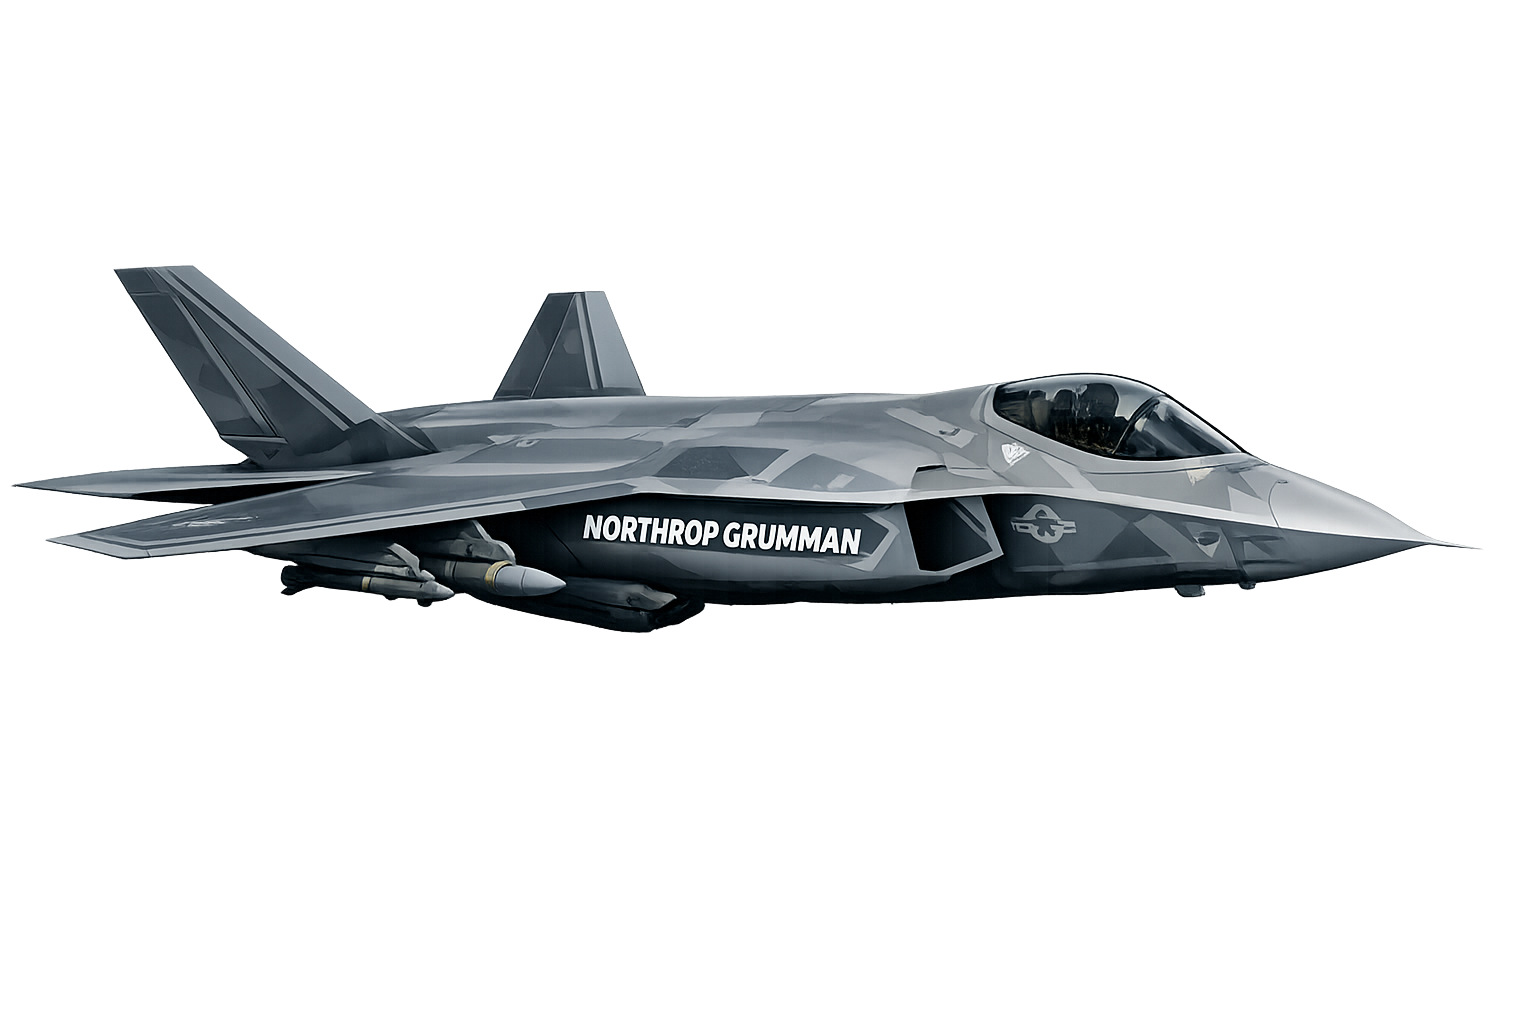
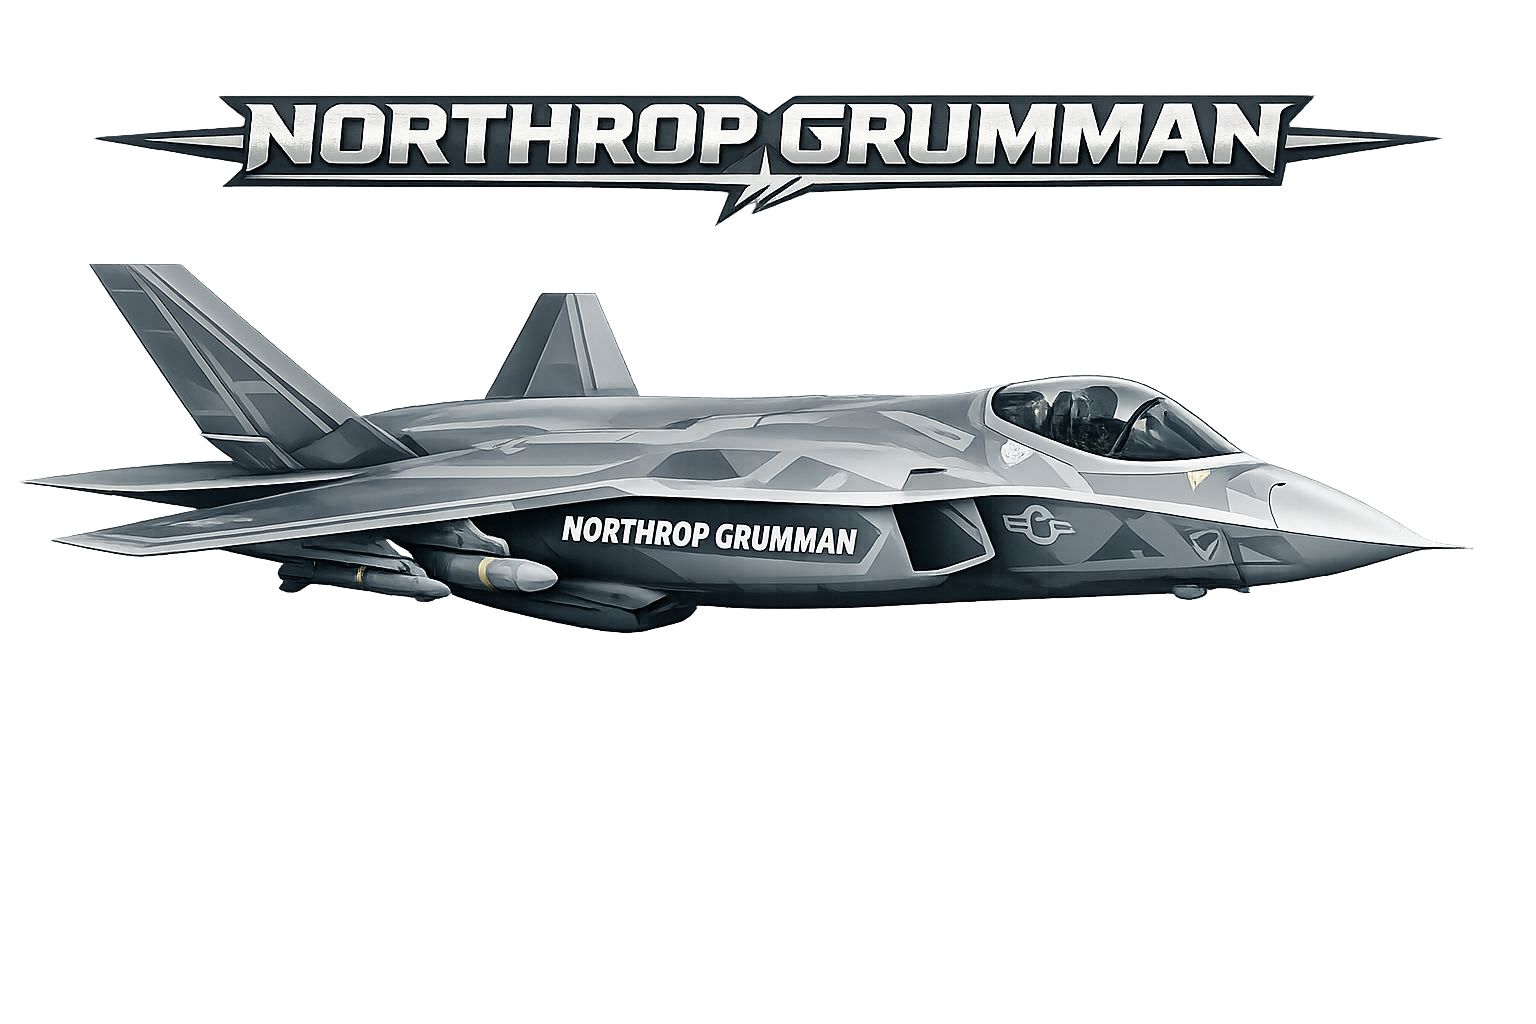
Fix phase 2: UFO stays behind jet, never overtakes before firing
UFO gap shrinks from 250px to 80px as it catches up, fires laser
from behind, jet explodes mid-flight. UFO then decelerates to hover.
Also replaced jet-right.png with version including big logo.

Changed region(s): [[0.0, 0.25, 0.9375, 0.625], [0.0625, 0.0938, 0.9375, 0.2188]]

diff --git a/public/js/easter-egg.js b/public/js/easter-egg.js
@@ -113,27 +113,32 @@ function runPhase2(overlay) {
   // store for phase 3
   overlay._ufo = ufo;
 
-  // Jet flies steady R→L across entire screen
-  const jetStart = W + 100;
-  const jetEnd = -350;
+  // Both fly right-to-left.
+  // Jet is AHEAD (fleeing), UFO is BEHIND (chasing).
+  // UFO closes the gap but never passes the jet.
+  // At t=0.45 UFO is right behind → fires laser → jet explodes.
+  // Then UFO slows to hover at center for phase 3.
 
-  // UFO starts further right (behind jet), flies faster to overtake
-  const ufoStart = W + 300;
-  const ufoEnd = -100;
+  const jetSpeed = W + 400; // total distance jet covers
+  const jetStart = W + 350; // jet enters from far right (it's ahead)
+
+  const ufoGapStart = 250; // UFO starts 250px behind jet
+  const ufoGapAtFire = 80; // gap closes to 80px at laser time
 
   return anim(4500, (t) => {
-    // Jet: constant speed R→L
-    const jetX = lerp(jetStart, jetEnd, t);
+    // Jet: constant speed R→L the whole time
+    const jetX = jetStart - jetSpeed * t;
     jet.style.left = jetX + 'px';
 
-    // UFO: starts behind, accelerates to overtake
-    // Ease-in-out so it starts slow, catches up, then cruises past
-    const ufoEased = t < 0.5 ? 2 * t * t : 1 - Math.pow(-2 * t + 2, 2) / 2;
-    const ufoX = lerp(ufoStart, ufoEnd, ufoEased);
-    ufo.style.left = ufoX + 'px';
+    if (t <= 0.52) {
+      // UFO: starts behind jet, gap shrinks from 250 to 80
+      const gap = lerp(ufoGapStart, ufoGapAtFire, t / 0.52);
+      const ufoX = jetX + gap;
+      ufo.style.left = ufoX + 'px';
+    }
     ufo.style.top = `calc(35% + ${Math.sin(t * 20) * 3}px)`;
 
-    // Fire laser when UFO is close to jet (~45%)
+    // Fire laser at t=0.45 — UFO is close behind
     if (t >= 0.45 && !laserFired) {
       laserFired = true;
       const laser = document.createElement('div');
@@ -141,16 +146,17 @@ function runPhase2(overlay) {
       const ufoRect = ufo.getBoundingClientRect();
       const jetRect = jet.getBoundingClientRect();
       const y = ufoRect.top + ufoRect.height / 2;
-      const left = Math.min(ufoRect.left, jetRect.left + jetRect.width / 2);
-      const right = Math.max(ufoRect.left, jetRect.left + jetRect.width / 2);
+      // Laser goes from UFO's left edge to jet's center
+      const laserRight = ufoRect.left;
+      const laserLeft = jetRect.left + jetRect.width * 0.3;
       laser.style.top = y + 'px';
-      laser.style.left = left + 'px';
-      laser.style.width = Math.max(right - left, 20) + 'px';
+      laser.style.left = Math.min(laserLeft, laserRight) + 'px';
+      laser.style.width = Math.abs(laserRight - laserLeft) + 'px';
       overlay.appendChild(laser);
       setTimeout(() => laser.remove(), 300);
     }
 
-    // Explode jet at t=0.52 (right after laser)
+    // Explode jet at t=0.52
     if (t >= 0.52 && !exploded) {
       exploded = true;
       const jetRect = jet.getBoundingClientRect();
@@ -164,10 +170,12 @@ function runPhase2(overlay) {
     }
 
     // After explosion, UFO decelerates to hover at center for phase 3
-    if (t > 0.7) {
-      const hoverT = (t - 0.7) / 0.3; // 0→1 over last 30%
-      const hoverX = lerp(ufoX, W * 0.45, hoverT * hoverT);
-      ufo.style.left = hoverX + 'px';
+    if (t > 0.52) {
+      const hoverT = Math.min((t - 0.52) / 0.4, 1);
+      const eased = 1 - Math.pow(1 - hoverT, 3);
+      const currentUfoX = parseFloat(ufo.style.left) || W * 0.5;
+      const hoverTarget = W * 0.45;
+      ufo.style.left = lerp(currentUfoX, hoverTarget, eased) + 'px';
     }
   }).then(() => {
     jet.remove();
